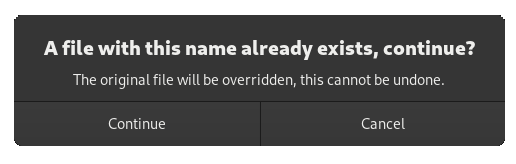
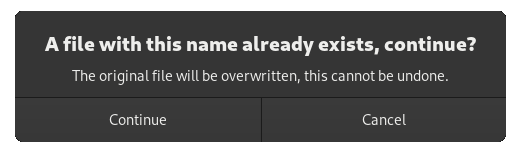
stashing

diff --git a/docs/src/01_manual/07_os_interface.md b/docs/src/01_manual/07_os_interface.md
@@ -98,7 +98,7 @@ Shipped applications, that is, applications intended for end users that are no l
 
 If the operating system is Linux, many log message will be written to the default location, usually `/var/log`. On other operating systems, message may not be stored at all.
 
-Regardless of OS, we can forward all logging, including that of mousetrap itself, to a file using `set_log_file`, which takes the file path as a string. If the file already exist, it will be appended to (as opposed to being overriden). If the file does not yet exist, it will be created. If this operation was unsuccesful, `false` will be returned.
+Regardless of OS, we can forward all logging, including that of mousetrap itself, to a file using `set_log_file`, which takes the file path as a string. If the file already exist, it will be appended to (as opposed to being overwritten). If the file does not yet exist, it will be created. If this operation was unsuccesful, `false` will be returned.
 
 When stored to a file, logging message will have a different format that may or may not list additional information when compared to logging to a console. The philosophy behind this is that it is better to log as much information as possible, then use second party software to filter it, as opposed to missing crucial information for the sake of brevity:
 
@@ -333,7 +333,7 @@ Looking again at the previous screenshot in this section, we see that in the bot
 
 By adding a filter, we make it so only files that pass that filter will be shown and thus be selectable. This is useful when we want to limit file selection to only a certain type of files, for example, an image manipulation application would only allow loadable image files as the file type for an `Open...` dialog.
 
-We construct a `FileFilter` by first choosing a name. This string will be used as the title of the filter, which is shown in the `FileChooser`s drop-down:
+We construct a `FileFoilter` by first choosing a name. This string will be used as the title of the filter, which is shown in the `FileChooser`s drop-down:
 
 ```julia
 file_filter = FileFilter("*.jl")
@@ -366,7 +366,7 @@ By default, no `FileFilter`s will be registered, which means the `FileChooser` w
 
 ## Alert Dialog
 
-A very common for an application that manipulates files is to make sure the user knows they are overriding a file, for example when the users selects a location using a `FileChooser` whos action is `FILE_CHOOSER_ACTION_SAVE_FILE`.
+A very common for an application that manipulates files is to make sure the user knows they are overwriting a file, for example when the users selects a location using a `FileChooser` whos action is `FILE_CHOOSER_ACTION_SAVE_FILE`.
 
 While we could construct a custom widget for this purpose, put that widget in a `Window`, then present that window to the user, a task as common as this should be possible in only a few lines. For this purpose, mousetrap offers [`AlertDialog`](@ref), which is a dialog that shows a message to the user, along with one or more buttons they can click.
 
@@ -376,7 +376,7 @@ Each `AlertDialog` has a **message**, a **detailed description**, as well as one
 overwrite_file_warning_dialog = AlertDialog(
     ["Continue", "Cancel"],  # buttons
     "A file with this name already exists, continue?", # message
-    "The original file will be overridden, this cannot be undone." # detail description
+    "The original file will be overwritten, this cannot be undone." # detail description
 )
 ```
 
@@ -548,5 +548,5 @@ Other than with `ImageDisplay`, we have other ways to use icons in graphical wid
 
 ## Icon Themes
 
-!!! Note 
+!!! note 
     This chapter is not yet complete, consider viewing the document of [`IconTheme`](@ref) and its related functions.

diff --git a/docs/src/01_manual/03_actions.md b/docs/src/01_manual/03_actions.md
@@ -173,7 +173,7 @@ A modifier is one of the following:
 + `Control`
 + `Alt`
 
-!!! Note 
+!!! note 
     Additional modifiers include `CapsLock`, `AltGr`, `Meta`, `Apple` and `Win`. These are keyboard-layout and/or OS-specific. See [here](https://docs.gtk.org/gdk4/flags.ModifierType.html) for more information.
 
 A non-modifier, then, is any key that is not a modifiers. 
@@ -193,7 +193,7 @@ Shortcuts are represented as c-strings, which have a specific syntax. As seen ab
 
 That last one requires explanation. On most keyboard layouts, to type `!`, the user has to press the shift modifier key, then press the `1` key. When "Shift + 1" is pressed, mousetrap does not receive this keyboard key event as-is, instead, it receives a single key event for the `!` key, with no modifiers. The identifier of `!` is `exclam`, hence why "Shift + 1" is written as `exclam`.
 
-!!! Note "Hint: Looking up Key Identifiers"
+!!! note "Hint: Looking up Key Identifiers"
 
     An example on how to look up the key identifier will be performed here.
 

diff --git a/docs/src/01_manual/08_menus.md b/docs/src/01_manual/08_menus.md
@@ -17,7 +17,7 @@ In mousetrap, menus follows the [model-view architectural pattern](https://en.wi
 the menus model, which holds information about how the menu is structured, along with a view, which takes the models and transforms it into an interactable
 widget users can manipulate.
 
-!!! Note "Running Snippets from this Section"
+!!! note "Running Snippets from this Section"
 
     To follow along with code snippets from this section, we can use the following `.jl` file:
     ```julia

diff --git a/docs/src/02_library/classes.md b/docs/src/02_library/classes.md
@@ -24,7 +24,7 @@ Action
 + [`mousetrap.disconnect_signal_activated!`](@ref)
 + [`mousetrap.emit_signal_activated`](@ref)
 + [`mousetrap.get_signal_activated_blocked`](@ref)
-+ [`mousetrap.set_signal_activated_blocked!`](@ref)
++ [`mousetrap.set_signal_activated_blocked!`()](@ref)
 ---
 ## Adjustment
 ```@docs
